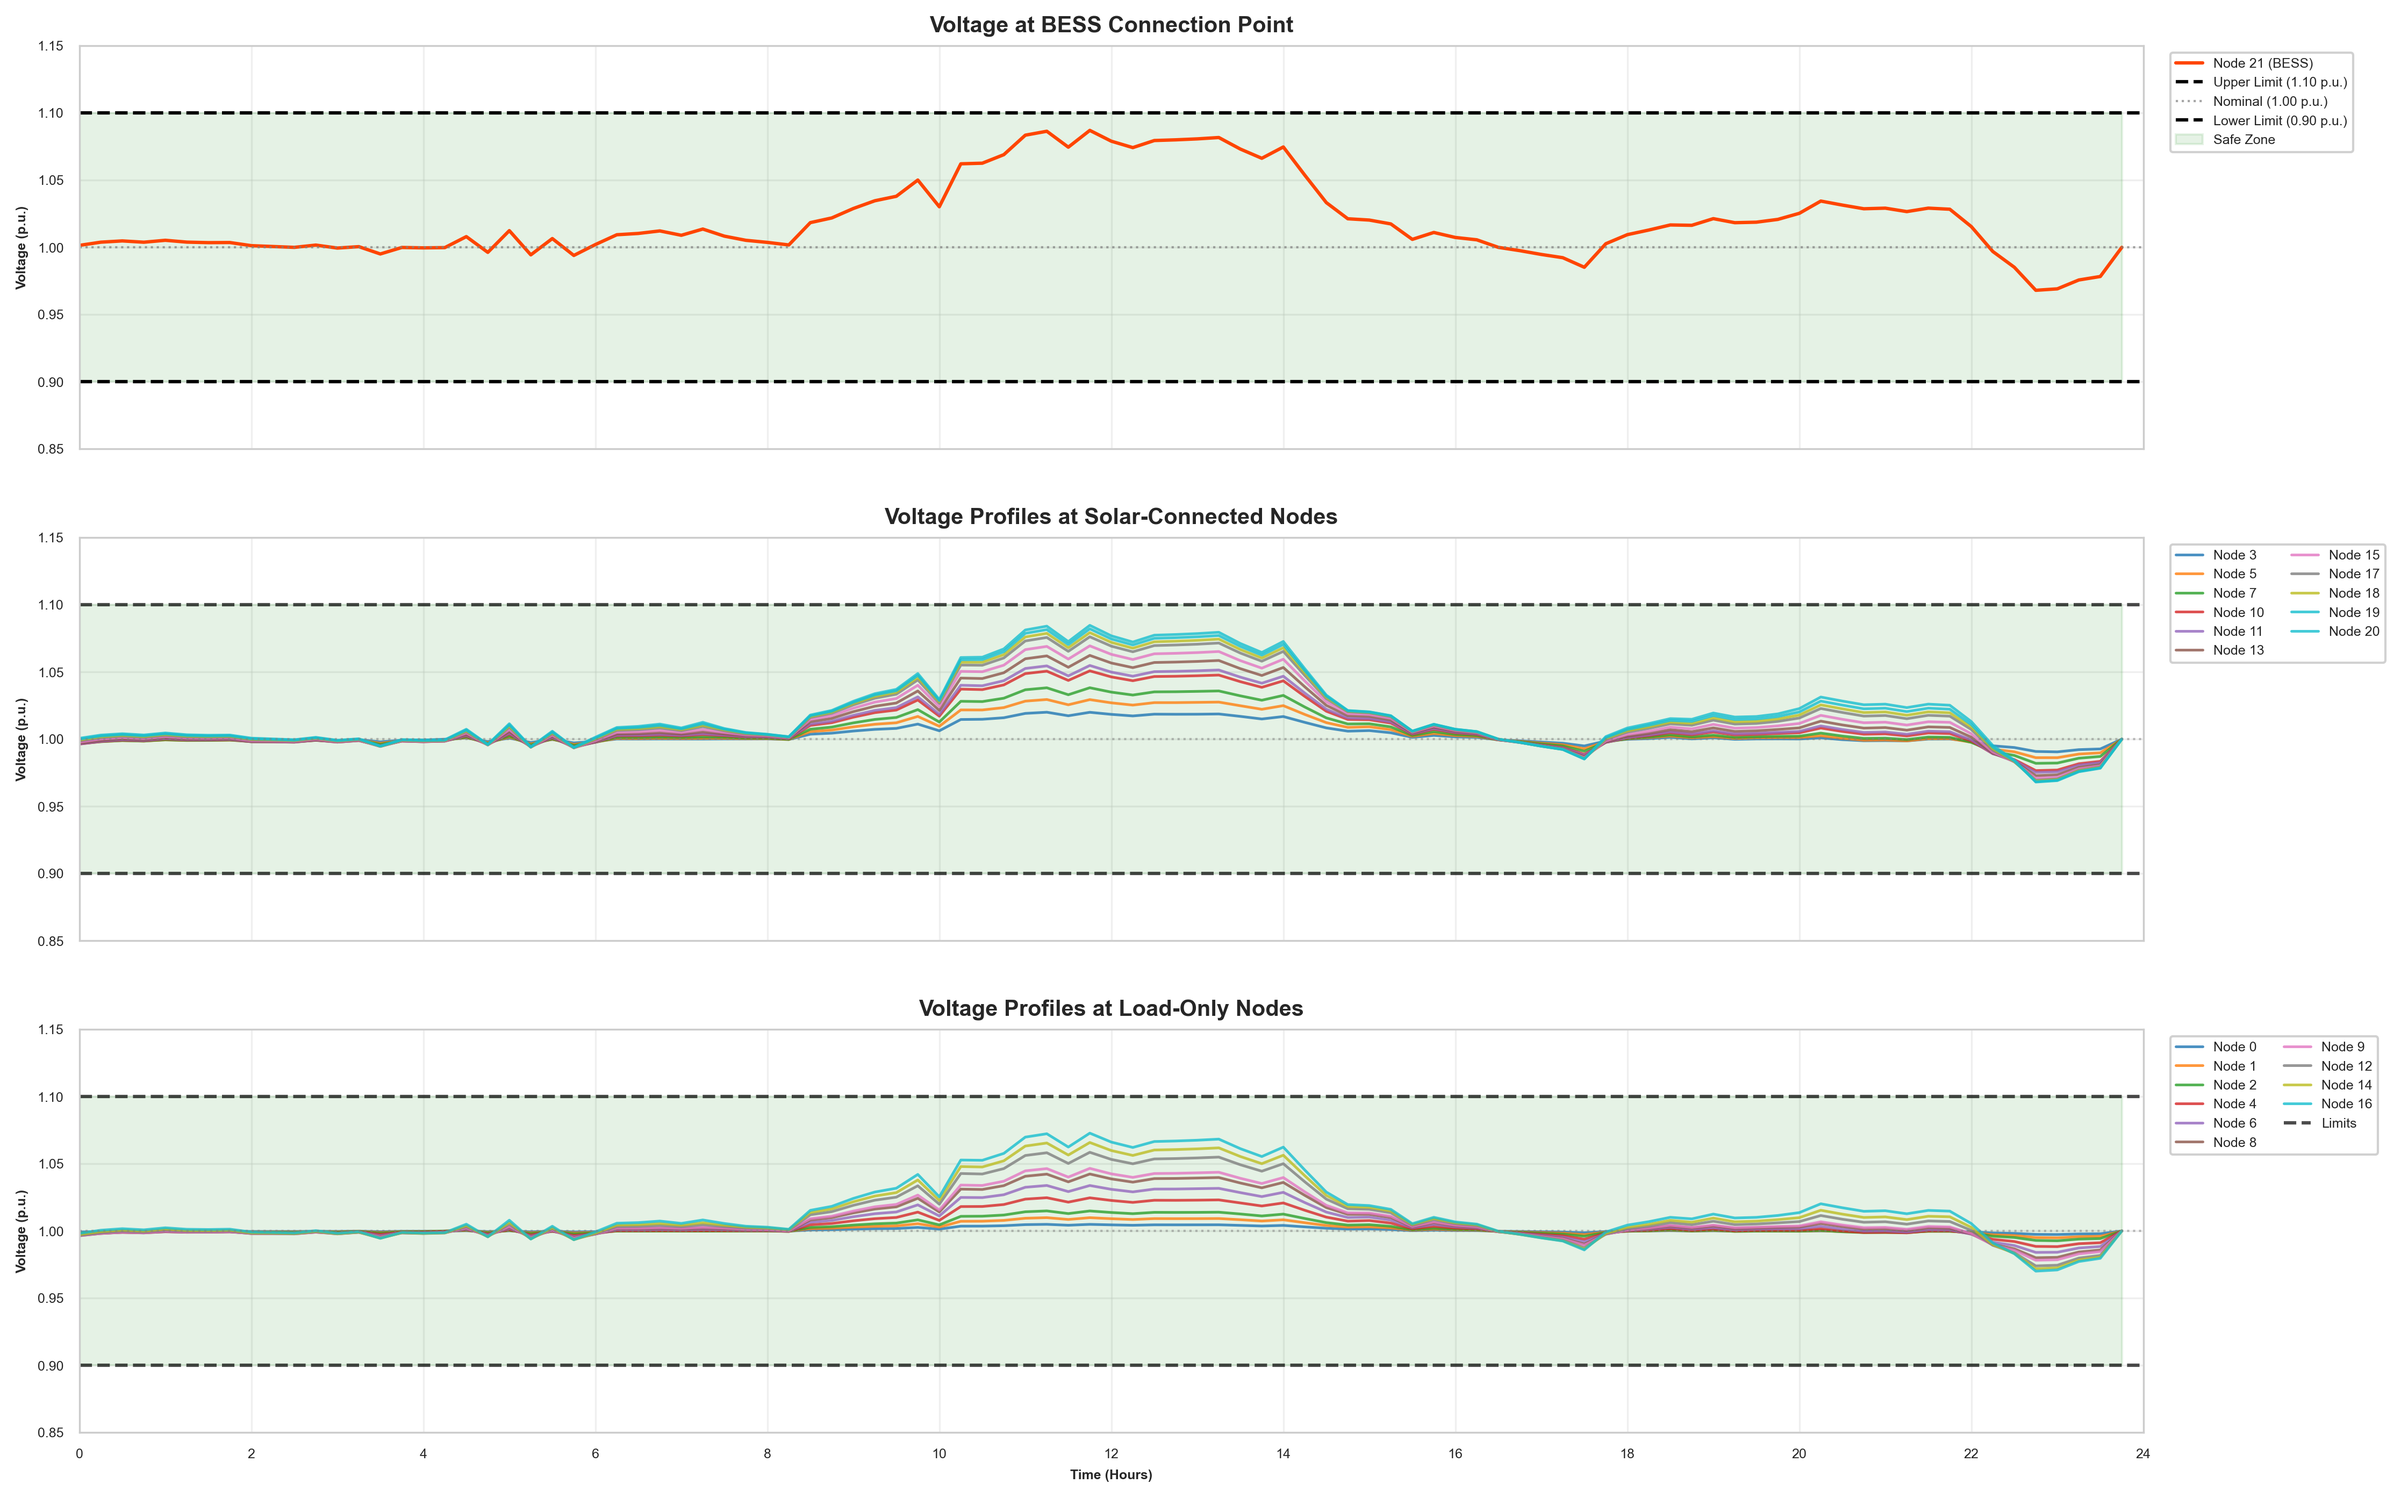
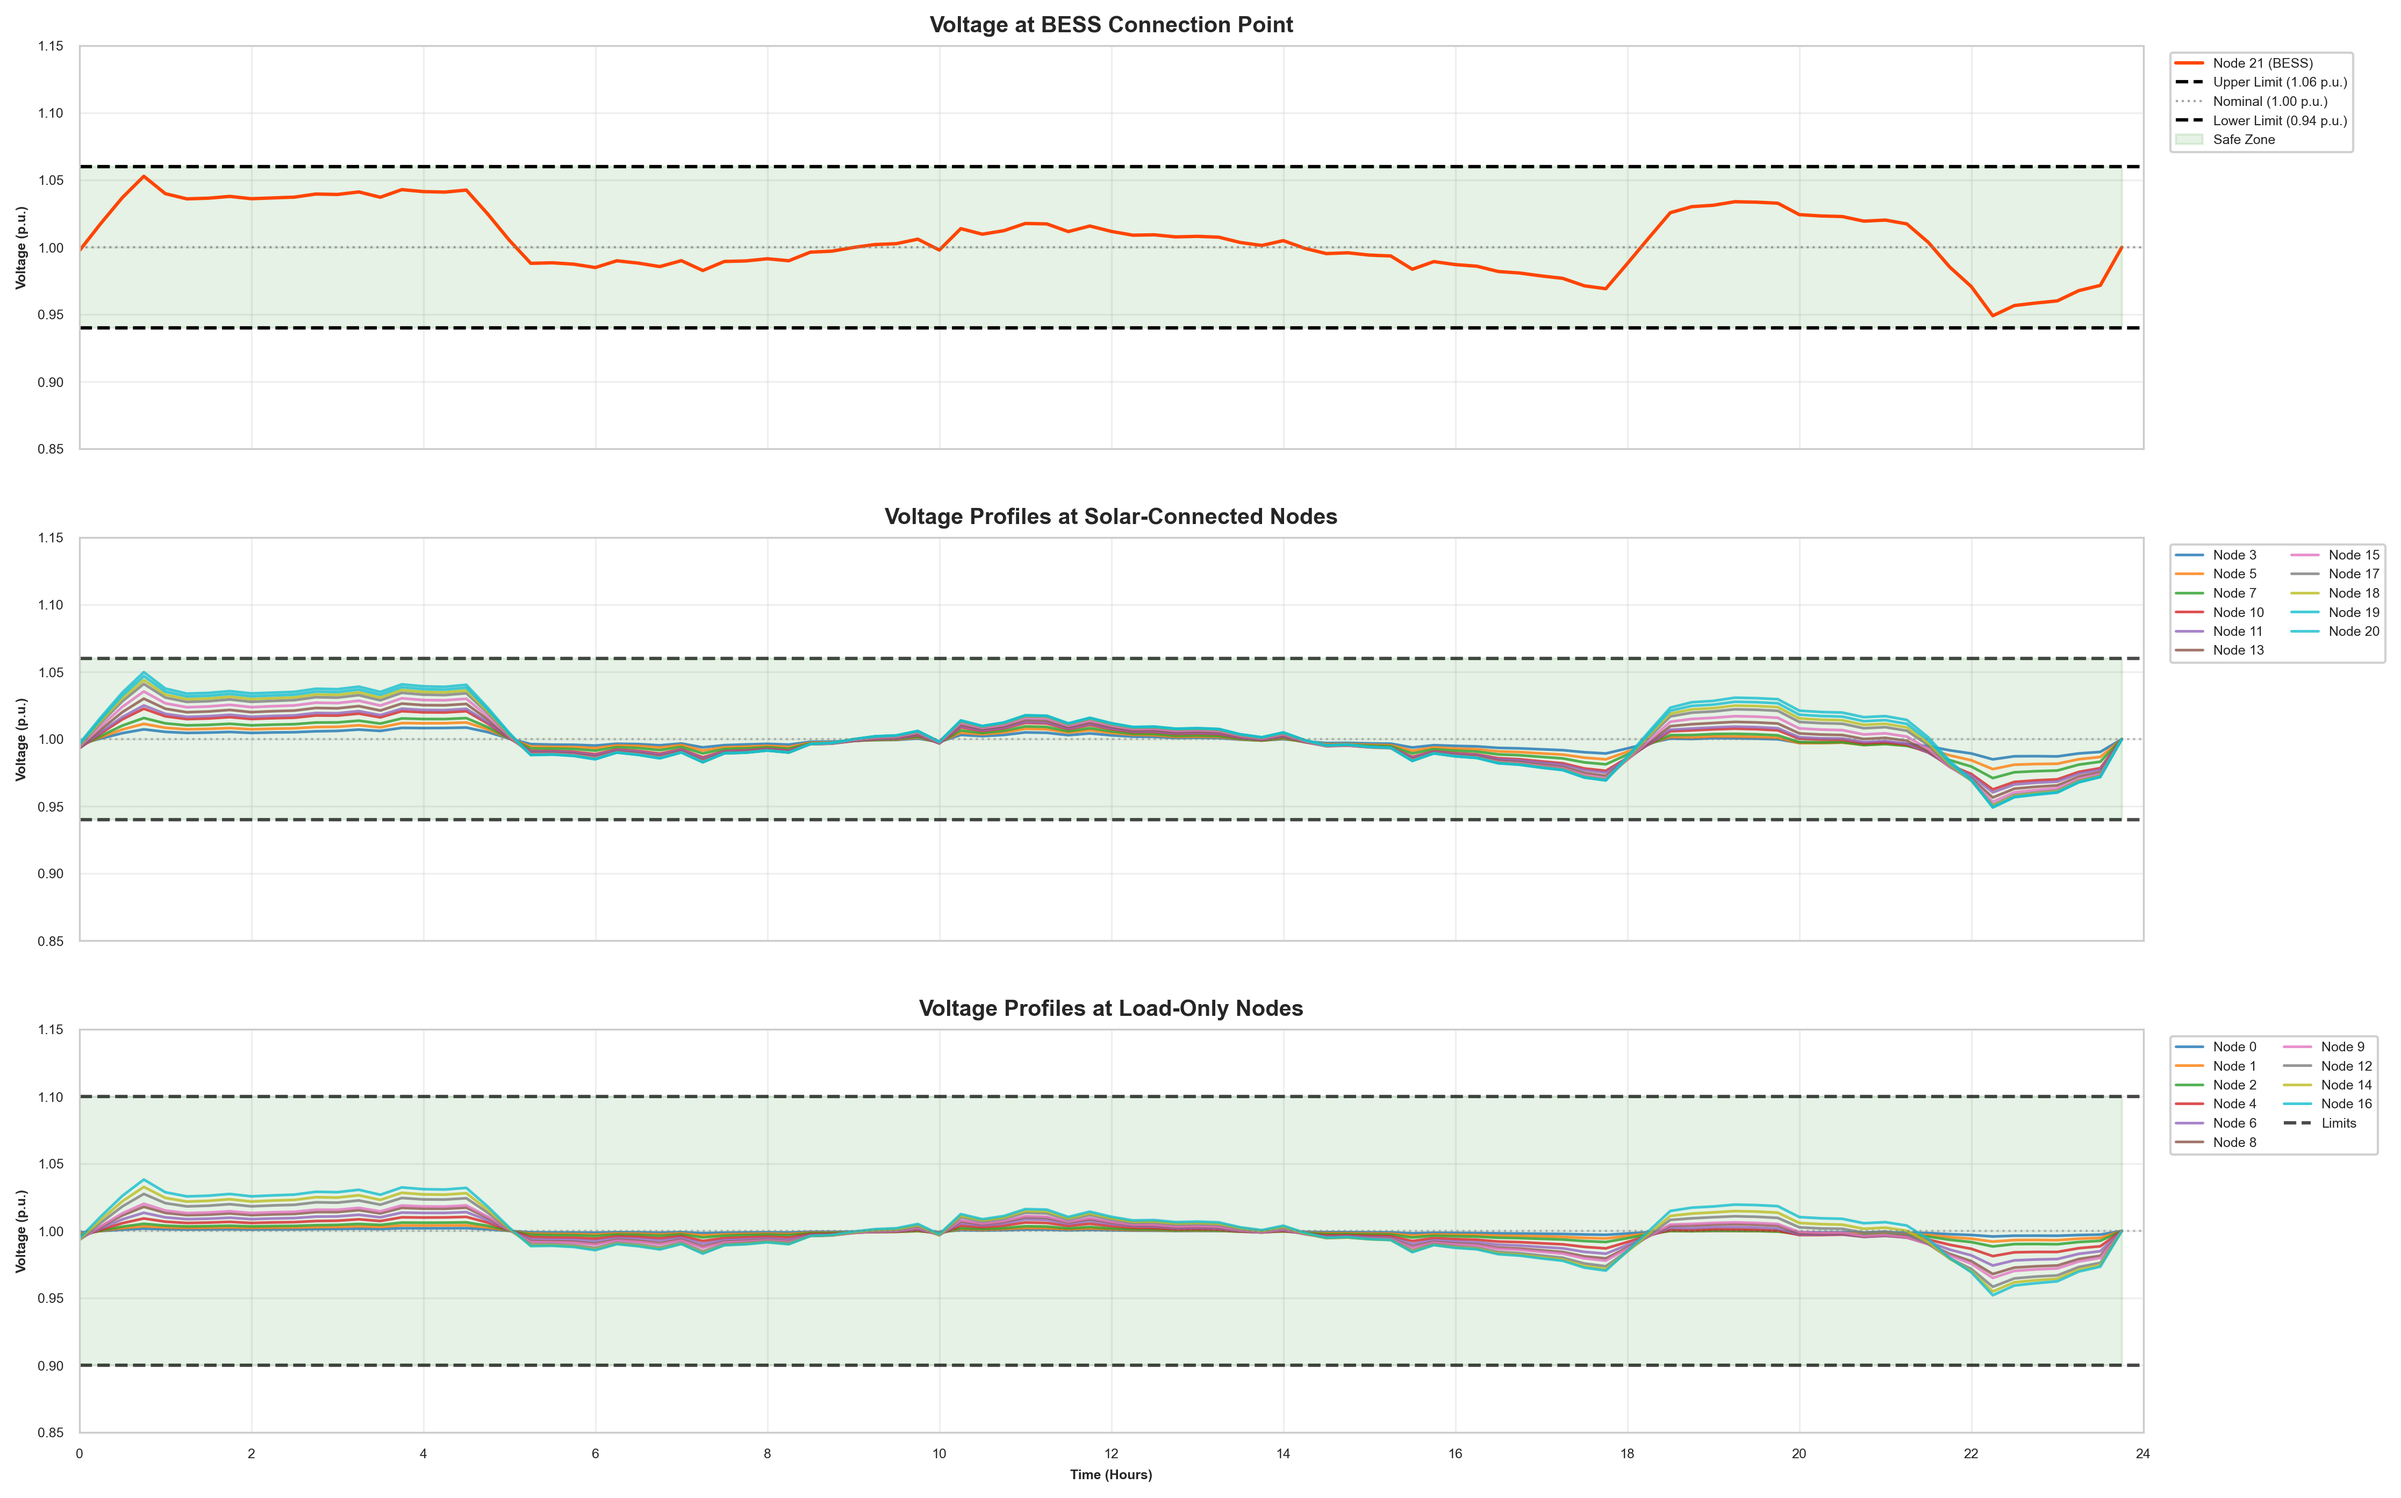
Tighten voltage limits & switch to heatwave scenario

diff --git a/RL_agent/plot_results.py b/RL_agent/plot_results.py
@@ -21,7 +21,7 @@ STATS_PATH = os.path.join(script_dir, "checkpoints", "best_model", "vecnormalize
 OUTPUT_DIR = os.path.join(os.path.dirname(script_dir), "results_plots")  # Where to save plots
 
 steps_to_plot = 96  # One day (15 min intervals)
-SCENARIO_NAME = "weekend_low_load_21_nodes" # Set to same as train.py (e.g. "heatwave_day") or None for default
+SCENARIO_NAME = "heatwave_day_21_nodes" # Set to same as train.py (e.g. "heatwave_day") or None for default
  
 # Node configuration
 SOLAR_NODE_INDICES = [3, 5, 7, 10, 11, 13, 15, 17, 18, 19, 20]
@@ -128,7 +128,7 @@ print(f"[OK] Simulation complete ({len(history['rewards'])} steps)")
 total_reward = sum(history["rewards"])
 total_export = sum(history["grid_export"]) * 0.25  # kWh
 total_import = sum(history["grid_import"]) * 0.25  # kWh
-voltage_violations = sum(1 for v in history["all_voltages"] if np.any((np.array(v) > 1.1) | (np.array(v) < 0.9)))
+voltage_violations = sum(1 for v in history["all_voltages"] if np.any((np.array(v) > 1.06) | (np.array(v) < 0.94)))
 
 print("\n=== Performance Summary ===")
 print(f"Total Reward: {total_reward:.2f}")
@@ -247,10 +247,10 @@ fig3, axes = plt.subplots(3, 1, figsize=(16, 10), sharex=True)
 # Plot 1: BESS Node Voltage
 axes[0].set_title("Voltage at BESS Connection Point", fontsize=10, fontweight='bold')
 axes[0].plot(time_axis, voltage_matrix[:, BESS_NODE_INDEX], color='#FF4500', linewidth=1.5, label=f'Node {BESS_NODE_INDEX} (BESS)')
-axes[0].axhline(y=1.10, color='black', linestyle='--', linewidth=1.5, label='Upper Limit (1.10 p.u.)')
+axes[0].axhline(y=1.06, color='black', linestyle='--', linewidth=1.5, label='Upper Limit (1.06 p.u.)')
 axes[0].axhline(y=1.00, color='gray', linestyle=':', linewidth=1, alpha=0.7, label='Nominal (1.00 p.u.)')
-axes[0].axhline(y=0.90, color='black', linestyle='--', linewidth=1.5, label='Lower Limit (0.90 p.u.)')
-axes[0].fill_between(time_axis, 0.90, 1.10, color='green', alpha=0.1, label='Safe Zone')
+axes[0].axhline(y=0.94, color='black', linestyle='--', linewidth=1.5, label='Lower Limit (0.94 p.u.)')
+axes[0].fill_between(time_axis, 0.94, 1.06, color='green', alpha=0.1, label='Safe Zone')
 axes[0].set_ylabel("Voltage (p.u.)", fontweight='bold')
 axes[0].set_ylim(0.85, 1.15)
 axes[0].legend(loc="upper left", bbox_to_anchor=(1.01, 1), framealpha=0.9, fontsize=6)
@@ -262,10 +262,10 @@ colors_solar = plt.cm.tab10(np.linspace(0, 1, len(SOLAR_NODE_INDICES)))
 for i, node_idx in enumerate(SOLAR_NODE_INDICES):
     axes[1].plot(time_axis, voltage_matrix[:, node_idx], label=f'Node {node_idx}', 
                 color=colors_solar[i], linewidth=1.2, alpha=0.8)
-axes[1].axhline(y=1.10, color='black', linestyle='--', linewidth=1.5, alpha=0.7)
-axes[1].axhline(y=0.90, color='black', linestyle='--', linewidth=1.5, alpha=0.7)
+axes[1].axhline(y=1.06, color='black', linestyle='--', linewidth=1.5, alpha=0.7)
+axes[1].axhline(y=0.94, color='black', linestyle='--', linewidth=1.5, alpha=0.7)
 axes[1].axhline(y=1.00, color='gray', linestyle=':', linewidth=1, alpha=0.5)
-axes[1].fill_between(time_axis, 0.90, 1.10, color='green', alpha=0.1)
+axes[1].fill_between(time_axis, 0.94, 1.06, color='green', alpha=0.1)
 axes[1].set_ylabel("Voltage (p.u.)", fontweight='bold')
 axes[1].set_ylim(0.85, 1.15)
 axes[1].legend(loc="upper left", bbox_to_anchor=(1.01, 1), ncol=2, framealpha=0.9, fontsize=6)

diff --git a/RL_agent/vpp_env.py b/RL_agent/vpp_env.py
@@ -16,7 +16,7 @@ from openDSS.run_opendss import VPPDSSRunner
 class UrbanVPPEnv(gym.Env):
     """
     Final Thesis VPP Environment
-    - Constraints: Voltage must be between 0.9 and 1.1 p.u.
+    - Constraints: Voltage must be between 0.94 and 1.06 p.u.
     - Inputs: Common Solar, 21 Loads, 22 Node Voltages, 3 SoCs, Time.
     """
     
@@ -593,17 +593,17 @@ class UrbanVPPEnv(gym.Env):
                     else:
                         night_charge_bonus += -10.0 * bess_charge_power
 
-        # B. Voltage Violation Penalty (0.9 to 1.1 p.u. limits)
+        # B. Voltage Violation Penalty (0.94 to 1.06 p.u. limits)
         # Monitor all nodes for grid safety compliance (3-phase aware)
         critical_nodes = list(range(21)) + [self.bess_index]
 
-        # Check undervoltage: min voltage per bus should be >= 0.9
+        # Check undervoltage: min voltage per bus should be >= 0.94
         min_voltages = self.voltages_min[critical_nodes]
-        under_voltage = np.maximum(0, 0.9 - min_voltages)
+        under_voltage = np.maximum(0, 0.94 - min_voltages)
         
-        # Check overvoltage: max voltage per bus should be <= 1.1
+        # Check overvoltage: max voltage per bus should be <= 1.06
         max_voltages = self.voltages_max[critical_nodes]
-        over_voltage = np.maximum(0, max_voltages - 1.1)
+        over_voltage = np.maximum(0, max_voltages - 1.06)
         
         total_violation = np.sum(over_voltage + under_voltage)
         
@@ -611,7 +611,7 @@ class UrbanVPPEnv(gym.Env):
         # Example: 0.01 p.u. deviation → -1 penalty
         # Example: 0.01 p.u. deviation → -1 penalty
         # voltage_penalty = -100.0 * total_violation
-        voltage_penalty = -50.0 * (total_violation ** 2)
+        voltage_penalty = -100.0 * (total_violation ** 2)
 
         # C. Battery Health & Smoothness
         # Penalize rapid power changes to reduce battery stress

diff --git a/RL_agent/train.py b/RL_agent/train.py
@@ -39,7 +39,7 @@ def main():
 
     # Set to a scenario name (e.g., "heatwave_day") to train on that specific scenario.
     # Set to None to use the default 'load_forecast.csv' and 'solar_forecast_formatted.csv'
-    scenario_name = "weekend_low_load_21_nodes"  # Use 21-node version for 21-load system
+    scenario_name = "heatwave_day_21_nodes"  # Use 21-node version for 21-load system
 
 
     
@@ -121,7 +121,7 @@ def main():
         "MlpPolicy", 
         env, 
         verbose=1,
-        learning_rate=linear_schedule(12e-4),  # Decaying LR for better convergence
+        learning_rate=linear_schedule(3e-4),  # Decaying LR for better convergence
         gamma=0.995,                # Discount factor
         gae_lambda=0.95,           # GAE smoothing
         clip_range=0.2,            # PPO clipping parameter

diff --git a/openDSS/run_opendss.py b/openDSS/run_opendss.py
@@ -34,7 +34,7 @@ class VPPDSSRunner:
       -kw => charge    (consume from grid)
     """
 
-    def __init__(self, dss_file: Path, vmin_pu: float = 0.9, vmax_pu: float = 1.1):
+    def __init__(self, dss_file: Path, vmin_pu: float = 0.94, vmax_pu: float = 1.06):
         self.dss_file = Path(dss_file)
         self.vmin_pu = float(vmin_pu)
         self.vmax_pu = float(vmax_pu)
